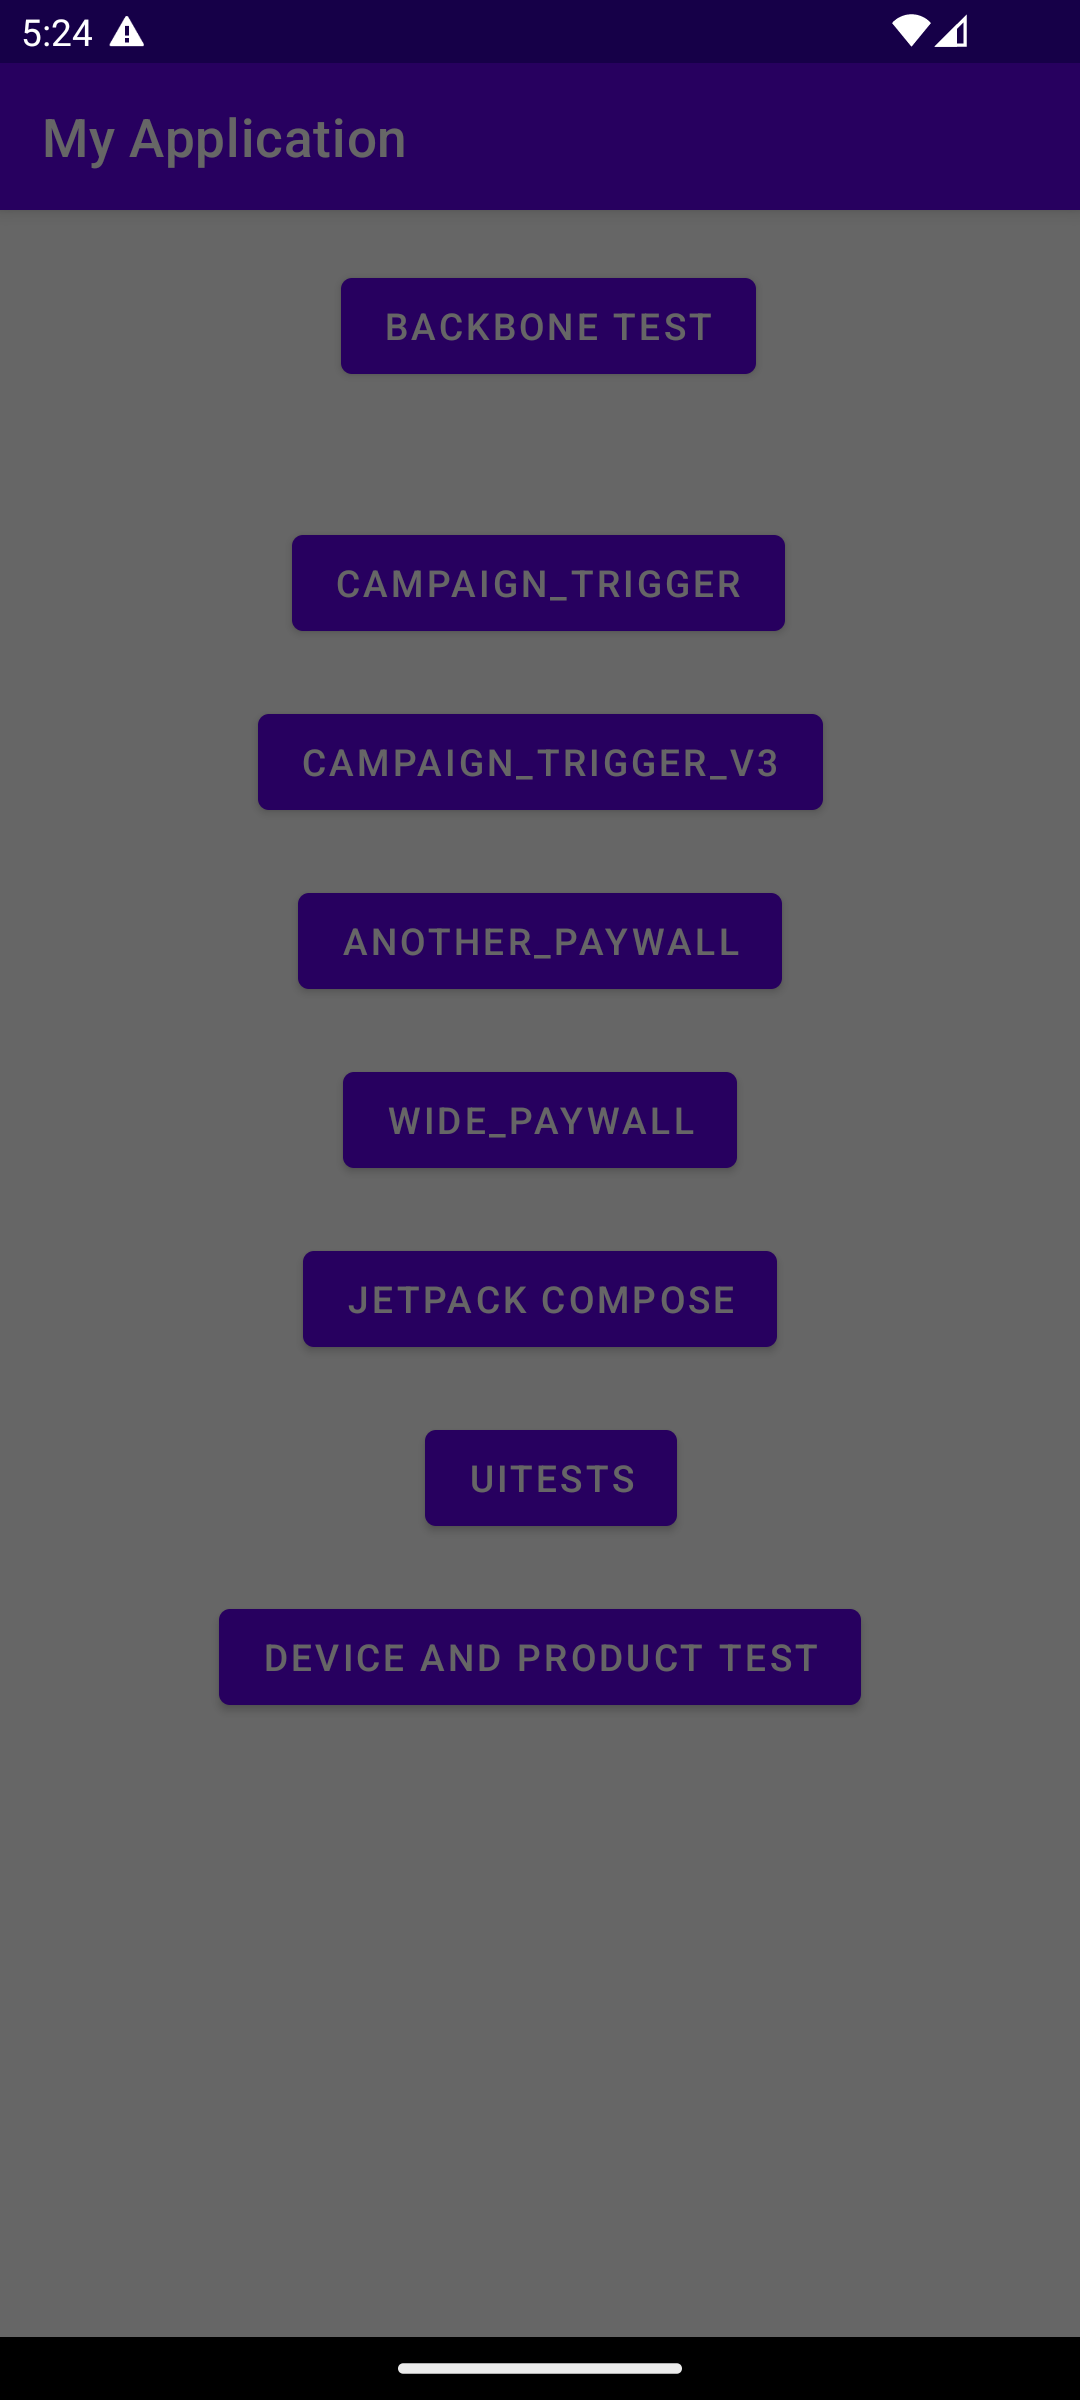
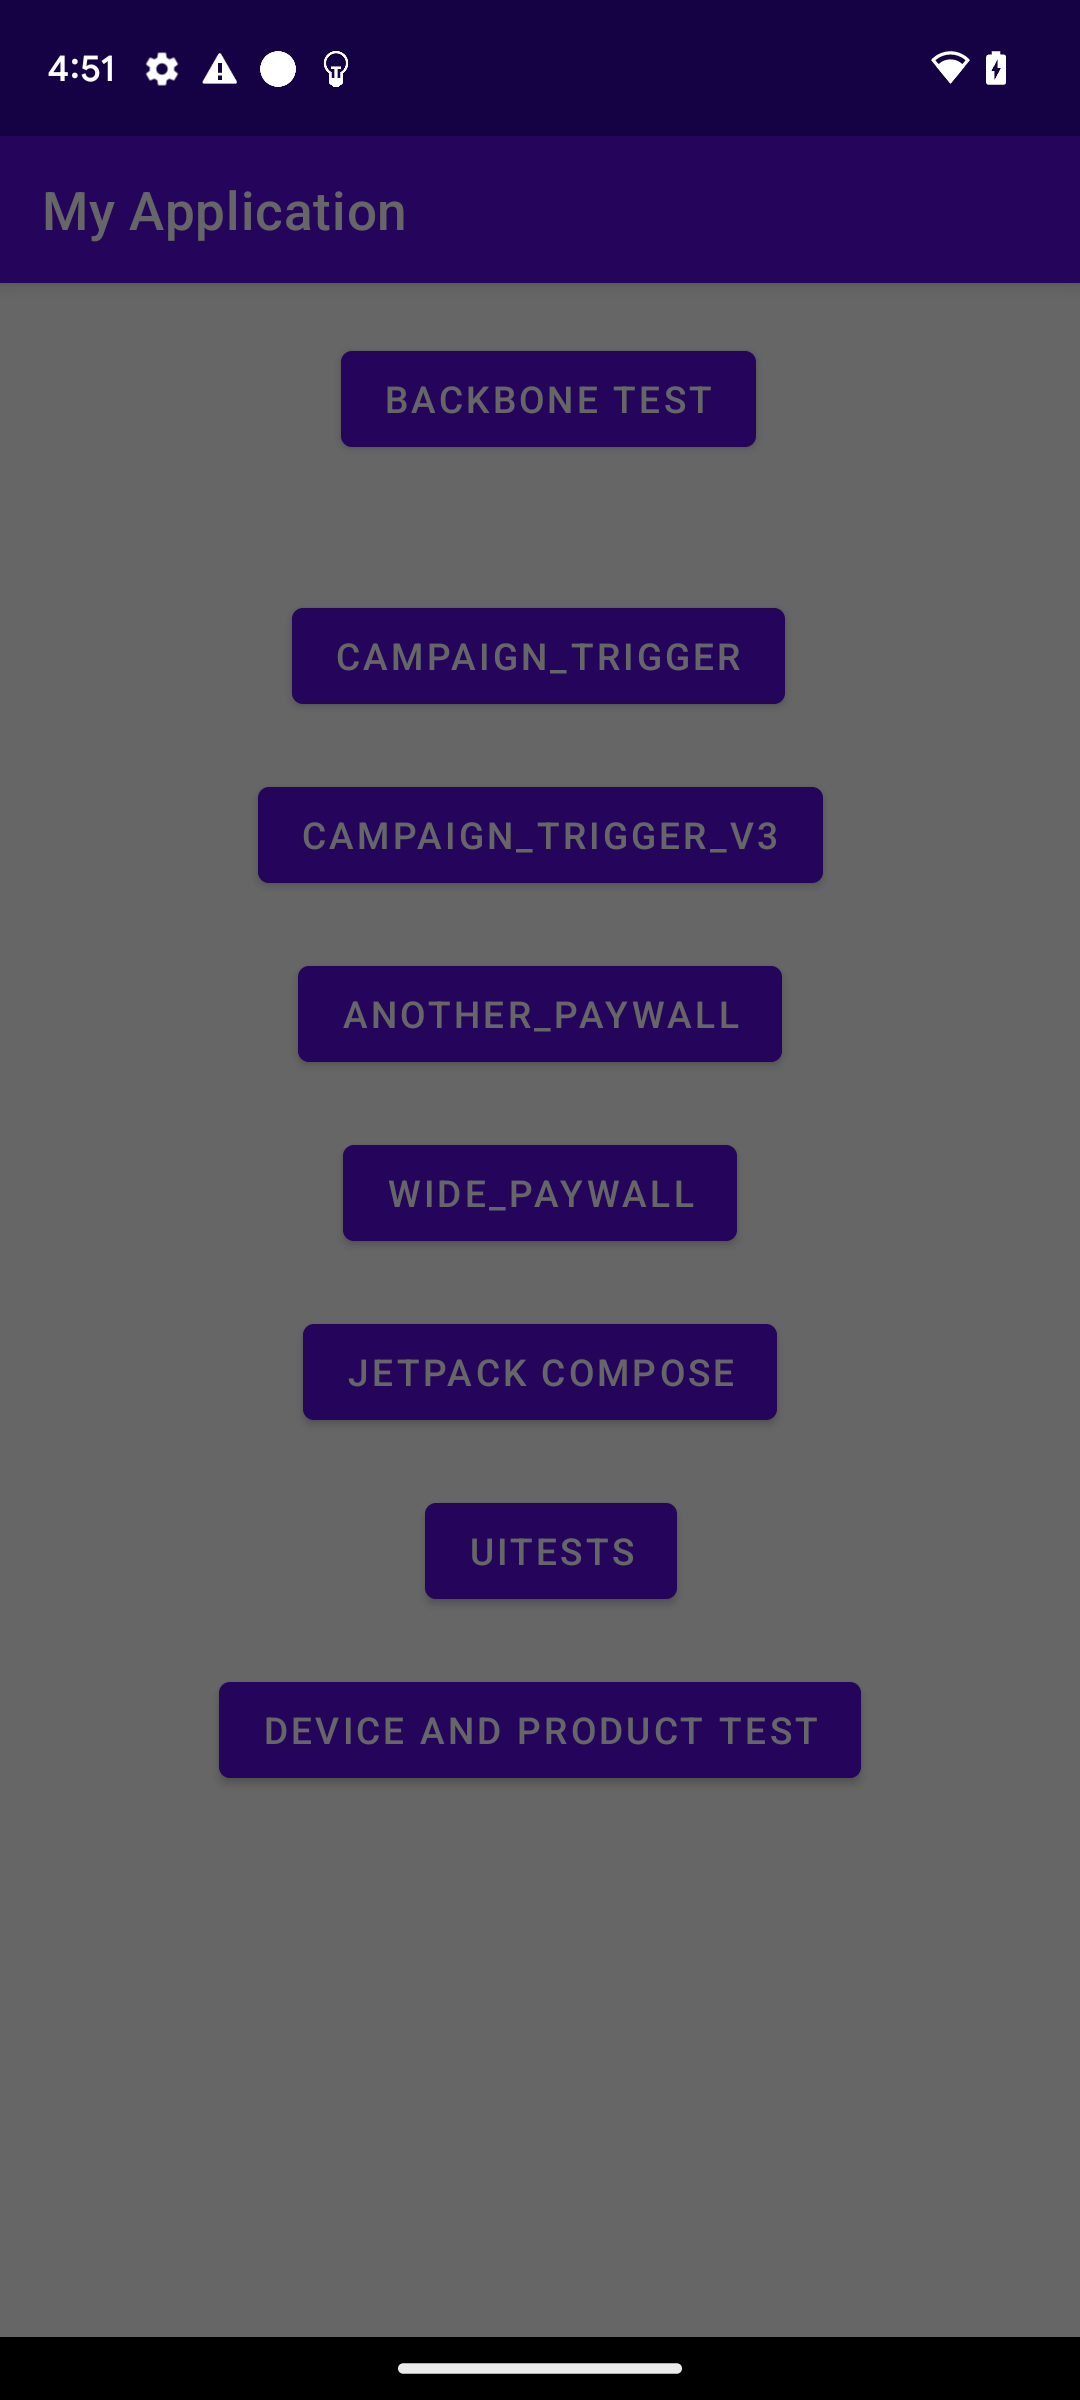
Update screenshots to match real device

Changed region(s): [[0.1833, 0.2188, 0.7944, 0.75], [0.0, 0.0, 1.0, 0.1875]]

diff --git a/app/src/main/java/com/superwall/superapp/test/UITestHandler.kt b/app/src/main/java/com/superwall/superapp/test/UITestHandler.kt
@@ -3,6 +3,7 @@ package com.superwall.superapp.test
 import android.content.Context
 import android.content.Intent
 import android.net.Uri
+import android.util.Log
 import com.superwall.sdk.Superwall
 import com.superwall.sdk.analytics.superwall.SuperwallEvent
 import com.superwall.sdk.analytics.superwall.SuperwallEvent.DeepLink
@@ -32,9 +33,11 @@ object UITestHandler {
             0,
             "Uses the identify function. Should see the name 'Jack' in the paywall.",
             test = { scope, events ->
+                Log.e("Registering event", "present_data")
                 Superwall.instance.identify(userId = "test0")
                 Superwall.instance.setUserAttributes(attributes = mapOf("first_name" to "Jack"))
                 Superwall.instance.register(event = "present_data")
+                Log.e("Registering event", "done")
             },
         )
 

diff --git a/app/src/androidTest/java/com/example/superapp/utils/TestingUtils.kt b/app/src/androidTest/java/com/example/superapp/utils/TestingUtils.kt
@@ -107,7 +107,7 @@ fun Dropshots.screenshotFlow(
         }
     }
 
-    runTest(timeout = 6.minutes) {
+    runTest(timeout = 3.minutes) {
         try {
             flow.steps.forEach {
                 if (!testReady.value) {
